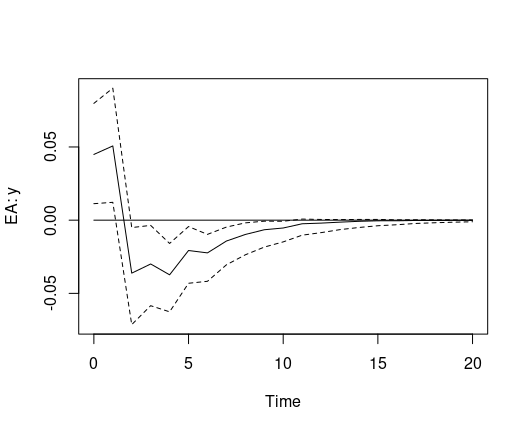
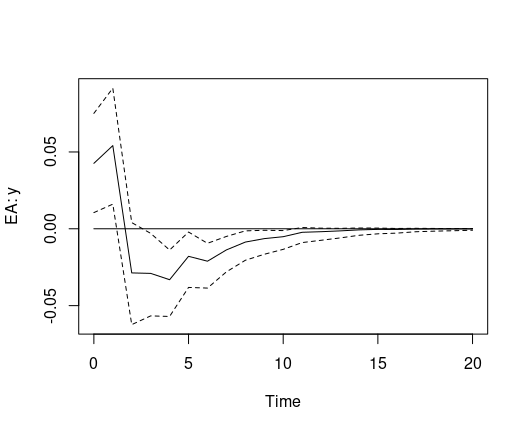
Update README

diff --git a/README.md b/README.md
@@ -46,19 +46,19 @@ separates a typical GVAR analysis into four steps:
 ### Data
 
 The `bgvars` packages comes with the updated GVAR database of Mohaddes
-and Raissi (2018), which contains economic time series for 33 countries
-and 3 commodities from 1979Q2 to 2016Q4.[^1]
+and Raissi (2020), which contains economic time series for 33 countries
+and 3 commodities from 1979Q2 to 2019Q4.[^1]
 
 ``` r
 library(bgvars)
 #> Loading required package: bvartools
 #> Loading required package: coda
-data("gvar2016")
+data("gvar2019")
 
-country_data <- gvar2016$country_data # Country series
-global_data <- gvar2016$global_data # Global commodities data
-region_weights <- gvar2016$region_weights # Data for regional weights
-weight_data <- gvar2016$weight_data # Data for trade weights
+country_data <- gvar2019$country_data # Country series
+global_data <- gvar2019$global_data # Global commodities data
+region_weights <- gvar2019$region_weights # Data for regional weights
+weight_data <- gvar2019$weight_data # Data for trade weights
 
 # Take first differences of non-stationary series  
 country_data <- diff_variables(country_data, variables = c("y", "Dp", "r"), multi = 100)
@@ -194,8 +194,8 @@ analysis in nonlinear multivariate models. *Journal of Econometrics
 Lütkepohl, H. (2007). *New introduction to multiple time series
 analysis* (2nd ed.). Berlin: Springer.
 
-Mohaddes, K., & Raissi, M. (2018). Compilation, revision and updating of
-the global VAR (GVAR) database, 1979Q2–2016Q4 (mimeo).
+Mohaddes, K., & Raissi, M. (2020). Compilation, revision and updating of
+the global VAR (GVAR) database, 1979Q2–2019Q4 (mimeo).
 <https://www.mohaddes.org/gvar>.
 
 Pesaran, H. H., & Shin, Y. (1998). Generalized impulse response analys
@@ -207,5 +207,5 @@ interdependencies using a global error-correcting macroeconometric
 model. *Journal of Business & Economic Statistics 22*(2), 129-162.
 <https://doi.org/10.1198/073500104000000019>
 
-[^1]: The paper and dataset can be downloaded from
+[^1]: The paper and data set can be downloaded from
     <https://www.mohaddes.org/gvar>.
